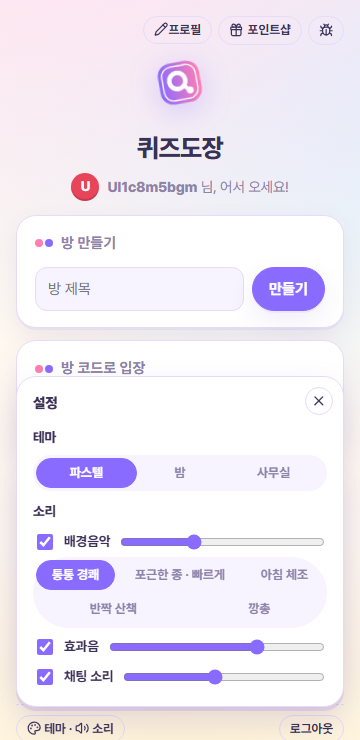
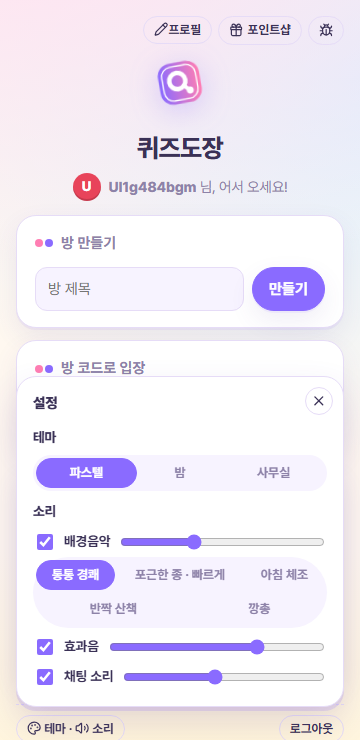
MAIN R112: 보고 · 모습 견주기 쪽지(영상 넷 ↔ 웹 PC · 모바일) · D-372 · A136

Changed region(s): [[0.1833, 0.2176, 0.7944, 0.2797]]

diff --git a/ai-out/R112-모습.html b/ai-out/R112-모습.html
@@ -1,0 +1,73 @@
+<!doctype html>
+<html lang="ko">
+<head>
+<meta charset="utf-8">
+<meta name="viewport" content="width=device-width, initial-scale=1">
+<title>R112 모습 견주기</title>
+<style>
+  :root { --page: #fff8f0; --surface: #fff; --border: #e6dcf7; --text: #3a3156; --dim: #8d82a8; --accent: #8a6bff; --ok: #18b26b; --chip: #f3eeff; }
+  body { margin: 0; background: var(--page); color: var(--text); font: 15px/1.6 'Pretendard Variable', 'Pretendard', 'Malgun Gothic', system-ui, sans-serif; }
+  main { max-width: 1280px; margin: 0 auto; padding: 24px 16px 64px; }
+  h1 { font-size: 1.5rem; margin: 0 0 4px; }
+  h2 { font-size: 1.15rem; margin: 36px 0 10px; }
+  p.lead { color: var(--dim); margin: 0 0 18px; }
+  .row { display: grid; grid-template-columns: 1.3fr 1fr 0.45fr; gap: 12px; align-items: start; background: var(--surface); border: 1.5px solid var(--border); border-radius: 20px; padding: 14px; margin-bottom: 14px; }
+  .row figure { margin: 0; }
+  .row img { width: 100%; height: auto; display: block; border-radius: 12px; border: 1px solid var(--border); }
+  figcaption { font-size: 0.8rem; color: var(--dim); margin-top: 4px; }
+  .tag { display: inline-block; background: var(--chip); color: var(--accent); border-radius: 999px; padding: 1px 10px; font-weight: 700; font-size: 0.85rem; margin-bottom: 8px; }
+  table { width: 100%; border-collapse: collapse; background: var(--surface); border-radius: 12px; overflow: hidden; }
+  th, td { border-bottom: 1px solid var(--border); padding: 8px 10px; text-align: left; vertical-align: top; font-size: 0.9rem; }
+  th { background: var(--chip); }
+  td.n { white-space: nowrap; font-weight: 700; }
+  .s { white-space: nowrap; }
+  @media (max-width: 760px) { .row { grid-template-columns: 1fr; } table { display: block; overflow-x: auto; } }
+</style>
+</head>
+<body>
+<main>
+  <h1>R112 — 영상과 웹, 같은 순간 나란히</h1>
+  <p class="lead">왼쪽 = 영상 「오늘의 상식 26.11.24」(1920×1080에서 뽑음) · 가운데 = 웹 PC 1280×720(방장) · 오른쪽 = 웹 모바일 390(참가자). 웹 그림은 ui-check --sound 가 검사 DB 로 돈 판에서 찍었다(문항이 달라 글자는 다르다). <b>이 라운드는 화면을 한 줄도 바꾸지 않았다</b> — 아래 표에서 고르면 다음 라운드가 한다.</p>
+
+  <section class="row">
+    <figure><span class="tag">① 문제 화면</span><img src="../docs/design/r112/v1-question.jpg" alt="영상 문제 화면"><figcaption>영상 20초</figcaption></figure>
+    <figure><img src="../docs/design/r112/w1-question-pc.png" alt="웹 PC 문제 화면"><figcaption>웹 PC</figcaption></figure>
+    <figure><img src="../docs/design/r112/w1-question-m390.png" alt="웹 모바일 문제 화면"><figcaption>웹 모바일</figcaption></figure>
+  </section>
+  <section class="row">
+    <figure><span class="tag">② 힌트가 뜬 화면</span><img src="../docs/design/r112/v2-hint.jpg" alt="영상 힌트 화면"><figcaption>영상 31초(남은 4초)</figcaption></figure>
+    <figure><img src="../docs/design/r112/w2-hint-pc.png" alt="웹 PC 힌트 화면"><figcaption>웹 PC(초성이 열린 순간)</figcaption></figure>
+    <figure><img src="../docs/design/r112/w2-hint-m390.png" alt="웹 모바일 힌트 화면"><figcaption>웹 모바일</figcaption></figure>
+  </section>
+  <section class="row">
+    <figure><span class="tag">③ 정답 공개 순간</span><img src="../docs/design/r112/v3-reveal.jpg" alt="영상 정답 공개"><figcaption>영상 35.3초</figcaption></figure>
+    <figure><img src="../docs/design/r112/w3-reveal-pc.png" alt="웹 PC 정답 공개"><figcaption>웹 PC(정답자 나옴)</figcaption></figure>
+    <figure><img src="../docs/design/r112/w3-reveal-m390.png" alt="웹 모바일 정답 공개"><figcaption>웹 모바일</figcaption></figure>
+  </section>
+  <section class="row">
+    <figure><span class="tag">④ 해설 중</span><img src="../docs/design/r112/v4-explain.jpg" alt="영상 해설"><figcaption>영상 45초</figcaption></figure>
+    <figure><img src="../docs/design/r112/w4-explain-pc.png" alt="웹 PC 해설"><figcaption>웹 PC(공개 1.5초 뒤)</figcaption></figure>
+    <figure><img src="../docs/design/r112/w4-explain-m390.png" alt="웹 모바일 해설"><figcaption>웹 모바일</figcaption></figure>
+  </section>
+
+  <h2>가. 토큰(색 · 둥글기 · 그림자) — 어긋난 것 없음</h2>
+  <p>영상 <code>brand/tokens.css</code> 의 값 42개 중 41개가 웹 <code>client/src/styles.css</code> 파스텔 테마와 글자까지 같다. 다른 하나는 <code>--font</code> 목록 끝(영상 <code>sans-serif</code> · 웹 <code>-apple-system …</code>)뿐이라 보이는 차이는 없다. → <b>색을 맞출 일은 없다. 다른 것은 전부 "모양"이다.</b></p>
+
+  <h2>나. 모양이 다른 것 — 찬종이 고를 표</h2>
+  <table>
+    <thead><tr><th>#</th><th>자리</th><th>영상은 이렇다</th><th>웹은 이렇다</th><th>웹을 영상에 맞추면 얻는 것</th><th>잃는 것</th><th>크기</th></tr></thead>
+    <tbody>
+      <tr><td class="n">1</td><td>난이도 표시</td><td>테두리 알약 안에 "쉬움" + 점 다섯(켜진 점은 분홍)</td><td>테두리 알약 "난이도 중급"(글자만)</td><td>영상에서 보던 점 표시를 게임에서 그대로 봄 · 한눈에 몇 단계인지</td><td>웹의 이 칸은 <b>판 전체의 설정</b>(초급 · 중급 · 고급 — 방장이 고른 것)이고, 영상의 점은 <b>문제 하나의</b> 난이도다. 뜻이 달라 그대로 옮기면 헷갈린다 — 문제별 난이도를 보여 줄지부터 정해야 함</td><td class="s">작음</td></tr>
+      <tr><td class="n">2</td><td>남은 시간 알약</td><td>마지막 5초에만 오른쪽 위에 "4초"</td><td>문제 내내 "15초"</td><td>문제 동안 화면이 조용해짐 · 5초 삑과 함께 떠서 긴장감</td><td>남은 시간을 늘 보고 싶은 사람(채팅으로 답 치는 게임이라 시간이 중요)</td><td class="s">작음</td></tr>
+      <tr><td class="n">3</td><td>정답 공개 순간</td><td>화면 가운데 큰 초록 알약 "피사의 사탑" + 위에 작은 "정답" 딱지 · 뒤는 흐려짐(도장 찍듯)</td><td>문제 카드 안 공개 칸: 정답자 얼굴 · "정답! 닉네임 +1" · "정답 [킬트]" 초록 칩 · 해설</td><td>영상과 가장 닮아 보이는 순간 · 정답 낱말이 크게 박힘</td><td>정답자 얼굴 · +1 · 소감 칸이 한 박자 늦게 보임(웹은 "누가 맞혔나"가 주인공) — 1초쯤 띄웠다 공개 칸으로 내려앉는 식이면 둘 다 살 수 있음</td><td class="s">보통</td></tr>
+      <tr><td class="n">4</td><td>"정답" 딱지(해설 중)</td><td>분홍 테두리 알약 안에 "정답 | 피사의 사탑"(초록 칩)</td><td>글자 "정답" 옆에 초록 칩(테두리 없음)</td><td>정답 칸이 한 덩어리로 보임 · 영상과 같은 꼴</td><td>거의 없음(자리를 조금 더 씀)</td><td class="s">작음</td></tr>
+      <tr><td class="n">5</td><td>힌트 줄</td><td>분홍 "힌트" 딱지 + 문장 하나(글자 큼) · 힌트가 없으면 줄도 없음</td><td>"힌트" · "초성" 두 줄이 늘 자리를 잡음 · 잠긴 줄은 회색 · 없으면 "없음"</td><td>힌트 없는 문제에서 빈 줄이 사라져 깔끔</td><td>웹은 일반 힌트 · 초성 두 단계라 "곧 열린다"는 자리 표시가 사라짐 · 열릴 때 화면이 출렁일 수 있음</td><td class="s">보통</td></tr>
+      <tr><td class="n">6</td><td>머리 줄의 문항 번호</td><td>없음</td><td>"#3838"(누르면 복사 · 제보용)</td><td>머리 줄이 짧아짐</td><td>제보할 때 문항 번호를 쉽게 못 찾음 — <b>맞추지 않기를 권함</b></td><td class="s">작음</td></tr>
+      <tr><td class="n">7</td><td>로고 자리</td><td>왼쪽 위에 작은 로고 + "오늘의 상식"</td><td>방 안에서는 방 이름 + 상태 칩(로고는 로비에만)</td><td>방 안에서도 "퀴즈도장"이 보임</td><td>방 이름 자리를 나눠야 함 · 모바일 머리 줄이 좁음</td><td class="s">보통</td></tr>
+      <tr><td class="n">8</td><td>문제 번호 알약 · 주제 칩 · 카드 위 띠 · 타이머 막대</td><td colspan="2">같다(보라 알약 "1 / 5" · 연보라 칩 · 보라→분홍 띠 · 보라 막대) — 영상이 웹에서 옮긴 그대로</td><td colspan="3">할 일 없음</td><td class="s">—</td></tr>
+    </tbody>
+  </table>
+  <p style="color:var(--dim);font-size:.85rem">그림 경로: <code>docs/design/r112/</code> · v* = 영상 · w* = 웹. 웹 그림은 <code>npm run ui-check:sound</code> 가 돌 때마다 새로 찍힌다.</p>
+</main>
+</body>
+</html>

diff --git a/docs/07-DECISIONS.md b/docs/07-DECISIONS.md
@@ -10,6 +10,13 @@
 
 ---
 
+## D-372. 웹 소리 = 영상 표 · 다섯 곡 · 3·2·1 (R112 · 찬종 2026-11-24 "영상에서 사용한 톤과 효과음 등으로 퀴즈도장 web 에 적용시켜")
+- 결정: 웹의 소리 값은 `client/src/soundRecipe.ts` 한 곳 — 영상 `quiz-video/brand/sound-recipe.js` 의 VOICES · SFX(웹이 쓰는 8개) · ROLES · BGM(bgm.json suite 다섯 곡)을 **숫자 그대로** 옮겼고, `soundRecipe.test.ts` 가 영상 저장소가 있으면 두 표를 견준다. 자리: 판 첫 문제 = go(통통 네 음) · 문제 = questionPluck · 힌트 = hintLow(예고 소리 없음) · 마지막 5초 = urgent(삑) · 정답 = correctBell(같았음) · 결과 = result(같았음) · **정답 공개 뒤 "N초 후 다음 문제 · 결과 화면" 3·2·1 = preHint 똑**(새 자리 'nextCount'). 배경음 = 통통 경쾌 · 포근한 종 · 빠르게(기본) · 아침 체조 · 반짝 산책 · 깡총 — 옛 bell(100) 뺌 · 판 번호 3.
+- 판단: ① 크기 — 옛 웹 소리보다 최고값이나 평균(50ms RMS)이 3dB 넘게 작아진 자리만 웹에서 gain 배수(sound.ts WEB_GAIN: 문제 1.32 · 힌트 1.28 · 5초 2.08 — 두 차이의 가운데만큼 · 맞춘 뒤 ±2.2dB 안). 음표 · 음색 · 길이는 그대로. ② 영상의 nextBell(다음 문제로)은 웹에서 안 낸다 — 다음 문제가 뜨는 순간 문제 소리가 나서 겹친다. ③ pageTurn(사락) · stamp(쿵)은 넣지 않음 — 웹에 따로 떨어진 "카드 펼침" 순간 · 도장 그림이 없다(제안만). ④ 곡 옮기기: 판 3 은 그대로 · 판 2 의 bounce(R104 뒤에 일부러 고른 것)는 지킴 · 나머지(판 2 의 bell · 판 번호 없는 옛 곡) → bell-up(migrateBgmPick · 브라우저 · 계정 둘 다). ⑤ 서버 prefs 의 곡 목록도 다섯 곡으로(지시서는 "클라이언트만"이었지만 이것을 안 고치면 계정에 새 곡이 저장되지 않는다) — 옛 화면이 보낼 수 있는 bell 은 받기만 한다.
+- 되돌리기: 크기 배수는 WEB_GAIN 줄 지우기 · 소리는 soundRecipe.ts ROLE_SFX 이름만 바꾸기 · 3·2·1 은 useGameSounds 의 nextAt 효과 한 덩어리.
+
+---
+
 ## D-371. 공개 주소는 "준비 중" 한 장 · 베타는 그대로 (R111 · 찬종 2026-11-21 "퀴즈 사이트는 좀 더 정비하고 올리는 걸로 할 거야")
 - 결정: `.env` `PUBLIC_OPEN`(1 = 열림 · 그 밖 = 닫힘)을 자리를 가를 때만 본다(`publicClosedFor` 순수 함수). 닫힌 공개 자리 = 화면 주소 전부 서버가 내는 작은 html 한 장(`server/src/closedPage.ts` — 앱 묶음 · 문항 · 그림이 나가지 않는다) · `/api/*` 는 `/api/site`(open:false) 만 · 나머지 403 `{ ok:false, error:'closed' }` · 소켓 연결 거절 · 열린 파일 = 파비콘(로고)만. 베타 자리는 그대로 · 베타 화면의 "공개 주소로" 링크는 닫힌 동안 숨김(publicUrl null).
 - 판단: ① 한 장은 서버가 html 로(클라이언트가 그리지 않음) — 닫힌 동안 게임 코드가 공개 주소로 안 나간다. ② 글꼴은 시스템 한글 글꼴(Pretendard 조각을 열지 않음 — /assets 를 통째로 닫아 둠). ③ 캐시 60초(열 때 Cloudflare 에 남는 시간이 짧게). ④ 한 줄 문구는 임시("곧 문을 엽니다.") — gpt 마무리 뒤 설계 창이 상수만 바꾼다. ⑤ 베타 가입 막힘 안내("공개 주소에서 가입해 주세요")는 그대로 둠(지시서 "베타는 글자 하나 바뀌지 않는다").

diff --git a/docs/13-PENDING-CHECKS.md b/docs/13-PENDING-CHECKS.md
@@ -129,6 +129,7 @@ npm run dev          # → http://localhost:5173
 | A133 | ★ **R109 — 베타 주소 · 공개/베타 나눔**(D-369 · 메뉴 3 → 1 · 찬종-확인 10절) | ① 베타 주소를 붙인 뒤 휴대폰에서 `https://beta.quizdojang.com` 로그인 → 노래 한 판 · 치이카와 보내기 ② 공개 주소에서 새 계정 가입 → 베타 주소 로그인이 "초대받은 계정만" 으로 막히나 → 메뉴 21 로 켠 뒤 들어가지나 ③ 공개 주소 방 설정에 [노래] · 얼마게요가 없나 · 사진 정답 화면 출처 줄 | ai-out/R109.txt 0절 · docs/11 4-4 | R109 |
 | A134 | ★ **R110 — 공식 로고 · 빅맥지수 빼기**(D-370 · 반영 = 설계 창) | ① 휴대폰 · PC 브라우저 탭 아이콘 · 홈 화면에 추가했을 때 아이콘이 새 로고인가 ② 로그인 · 로비의 로고 · "퀴즈도장" ③ 미니게임 고르기에 빅맥지수가 없나 ④ 판이 평소처럼 시작되나(문항 풀 한 벌 — 서버 창 첫머리 `[pool] 문항 풀 한 벌 n개`) | ai-out/R110.txt 0절 | R110 |
 | A135 | ★ **R111 — 공개 주소 준비 중**(D-371 · 반영 = 설계 창) | ① `https://quizdojang.com` = 로고 · 이름 · 한 줄만(가입 · 로그인 없음) ② `https://beta.quizdojang.com` = 지금처럼 로그인 → 한 판 ③ 베타 로그인 화면에 "공개 주소로" 링크가 없나 | ai-out/R111.txt | R111 |
+| A136 | ★ **R112 — 웹 소리 = 영상 소리**(D-372 · 반영 = 설계 창 · 화면 변화 없음) | ① 한 판 들어 보기: 첫 문제 "통통 네 음" · 문제마다 "통통 세 음" · 힌트 낮은 종 · **마지막 5초 삑(영상 타이머)** · 정답 종 · "N초 후 다음 문제"에서 똑-똑-똑 ② 5초 삑 · 문제 소리 크기가 옛 소리와 비슷한지(웹만 키웠다 — 크면 R112.txt 3절 배수를 줄임) ③ 설정 → 배경음 다섯 곡 · 처음 열면 "포근한 종 · 빠르게" ④ 휴대폰에서도 같은지 | ai-out/R112.txt 0절 · ai-out/R112-모습.html | R112 |
 | A129 | ★★ **R105 — 정답 인정어 한 줄**(D-362 · 메뉴 3 → 1 [1] — DB 구조 변경 없음) | ★ ① 대표 정답이 아닌 정답 인정어로 맞혀 보기(예: 더그아웃 문제에 '덕아웃' — G103 실린 뒤) → PC 는 정답 아래 `"덕아웃"으로 정답 인정` · 폰은 정답 옆 `· "덕아웃" 인정` ② 대표 정답으로 맞히면 줄이 없는지 ③ 폰 360 에서 긴 정답일 때 "…" 로 잘리는 모양이 괜찮은지 | ★ R105.txt 0절 · 그림 docs/design/r105 | R105 |
 | A128 | ★★ **R104 — 소리 영상과 한 집안**(D-361 · dev 3001 에서 듣고 → 메뉴 3 → 1 [1]) | ★ ① 배경음 포근한 종(옛 계정도 한 번 바뀜) ② 시작 종 시그널 ③ 마지막 5초 '똑' 크기 — 크면 0.22 → 0.16(영상도 같이) ④ 정답 종 네 음 · 내가 맞힌 반짝 ⑤ 설정에서 통통 경쾌 → 새로고침 · 다시 로그인해도 유지 ⑥ 휴대폰 소리 | ★ R104.txt 0절 · 그림 docs/design/r104 | R104 |
 | A127 | ★★ **R103 — 문항 × 사람 플레이 기록**(D-360 · 메뉴 3 → 1 [1] 로 0037) | ★ ① 서버를 바꾼 뒤 사람끼리 한 판 → `npm run stats:questions` 의 "새 기록" 이 0 보다 큰지 ② 몇 판 쌓이면(노출 3번 이상 문항이 생기면) 등급별 방 정답률 · 어긋난 목록을 설계가 읽는다 | ★ R103.txt 0 · 3절 | R103 |

diff --git a/ai-out/README.md b/ai-out/README.md
@@ -238,6 +238,7 @@
 | R109.txt | ★★★ **두 자리(공개 · 베타) + 출처 표기** — siteOf 한 함수 · 0039(is_friend · 치이카와 restricted · games.site · 문제 라이선스 값 걷기) · 베타 = 지인 계정만 · 가입 막기 · noindex · 공개 방 = 노래 · 얼마게요 숨김 · 상품 그림 항목 빼기 · 치이카와 막기 · 메뉴 21 · ⓘ 출처 · 라이선스 · 그림 출처 줄 = 저작자 (라이선스) · DATA_LICENSE 다시 씀 · D-369 · A133 |
 | R110.txt | ★★ **빅맥지수 빼기 · 공식 로고 · 문항 풀 한 벌** — hidden 한 줄 · BrandLogo · 파비콘 · 아이콘 · 퀴즈도장 · 서버에 문항 한 벌(지문 = 행 수 + xmin · 381 조합 대조) · 1,000명 서버 메모리 2.0GB → 180MB · 검사 서버 .env 자리 설정 차단 · D-370 · A134 |
 | R111.txt | ★★ **공개 주소 준비 중 한 장** — PUBLIC_OPEN · 닫힌 공개 = 서버 html 한 장 · /api 403 · 소켓 거절 · 베타 그대로 · D-371 · A135 |
+| R112.txt | ★★ **웹 소리 = 영상 소리 + 모습 견주기** — soundRecipe.ts(영상 표 그대로 · 테스트로 견줌) · 문제 · 힌트 · 5초 삑 · 시작 · 다음 문제 3·2·1 · 배경음 다섯 곡(기본 bell-up · 판 3) · 영상 wav 8개와 같음 · 크기 3자리 배수 · ui-check:sound 17/17 · R112-모습.html(토큰 41/42 같음 · 모양 7가지 표) · D-372 · A136 |
 | R107.txt | ★★★ **고정 주소 준비 + 공개 대비 보안** — TUNNEL_NAME · PUBLIC_HOSTNAME 둘 다 있으면 이름 붙인 터널(설정 점검 · 틀리면 임시) · 메뉴 4 고정/임시 · 진짜 IP · 로그인 잠금 · 가입 한도 · argon2 줄 · 보안 헤더 · CSP · 소켓 Origin · 연결 수 · 이벤트 속도 · 127.0.0.1 듣기 · DB 포트 루프백 · 정적 파일 캐시 · npm audit 패치 · bot attack 26/26 · 봇 73 통과 · D-364~367 · A131 · docs/21 |
 | R106.txt | ★ **외부 공개 문제집 흔적 지우기** — 0038(문항 10 · 판 기록 · 출처 줄 · dev 판 7개 확인) · 옛 마이그레이션 글 · 코드 주석 · 문서 · 옛 보고 21파일 · D-363 · A130 |
 | R105.txt | ★★ **정답 인정어 한 줄** — 인정어로 맞히면 공개 화면에 PC "덕아웃"으로 정답 인정(정답 아래) · 모바일 · "덕아웃" 인정(정답 옆 — 아래 줄은 360 · 390 에서 15px 넘침) · 서버 winnerAnswer(공개 때만) · ui-check --r105 30/30 · bot altanswer 14/14 · D-362 · A129 |

diff --git a/docs/06-WORKLOG.md b/docs/06-WORKLOG.md
@@ -8,6 +8,10 @@
 
 ---
 
+## 2026-11-24 — 웹 소리를 영상과 맞춤 + 모습 견주기 (R112, MAIN · D-372)
+- 무엇: client/src/soundRecipe.ts(새 — 영상 sound-recipe.js 와 같은 값) · sound.ts(표에서 소리 냄 · 배경음 다섯 곡 · 판 번호 3) · useGameSounds.ts(다음 문제 · 결과 앞 3·2·1) · prefsSync.ts(migrateBgmPick) · server authRoutes PREF_BGM_TRACKS · 테스트 soundRecipe.test.ts · prefs.test.ts · ui-check --sound(R112 기대값 · 웹 그림 넷) · ai-out/R112-모습.html.
+- [x] 1 정본 읽기 [x] 2 자리 맞추기(문제 · 힌트 · 5초 · 시작 · 3·2·1 · 배경음) [x] 3 확인(영상 wav 대조 · 크기 · 테스트 · ui-check:sound 17/17) [x] 4 모습 견주기(고치지 않음) — 검증 = ai-out/R112.txt.
+
 ## 2026-11-21 — 공개 주소 준비 중 한 장 (R111, MAIN · D-371)
 - 무엇: config PUBLIC_OPEN · YOUTUBE_URL · server/src/site.ts publicClosedFor · server/src/closedPage.ts(새) · index.ts 닫힘 문지기 · socket 핸드셰이크 거절 · /api/site open · 봇 siteclosed · ui-check --r111 · docs 11 4-4-1 · 07 D-371 · 01 19-1.
 - [x] 1 스위치 [x] 2 닫힌 공개 [x] 3 한 장 모양 [x] 4 베타 그대로 [x] 5 열기 = 한 줄 — 검증 = ai-out/R111.txt.
